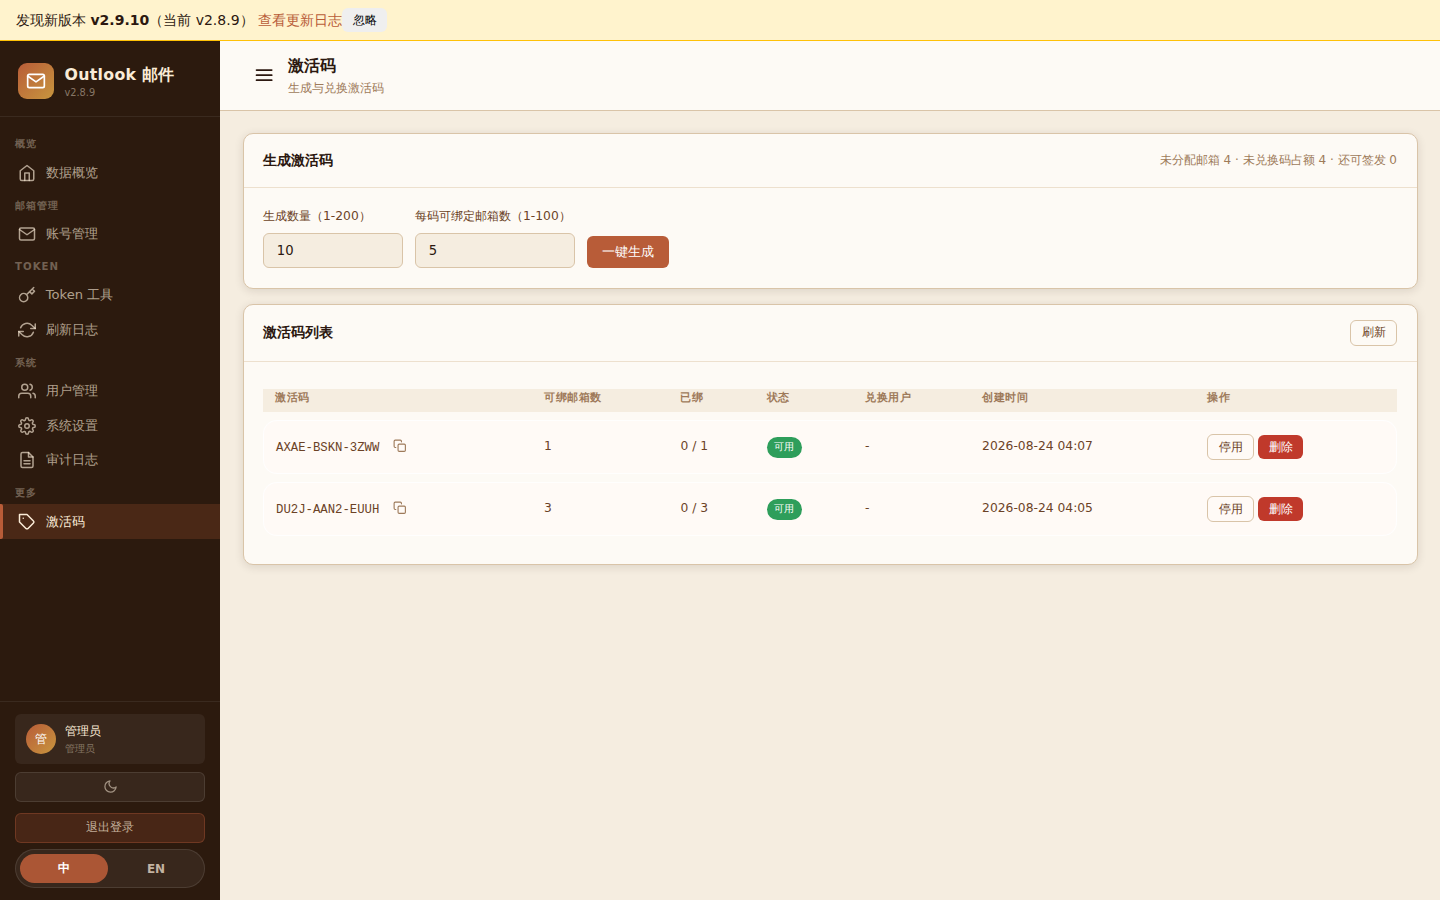
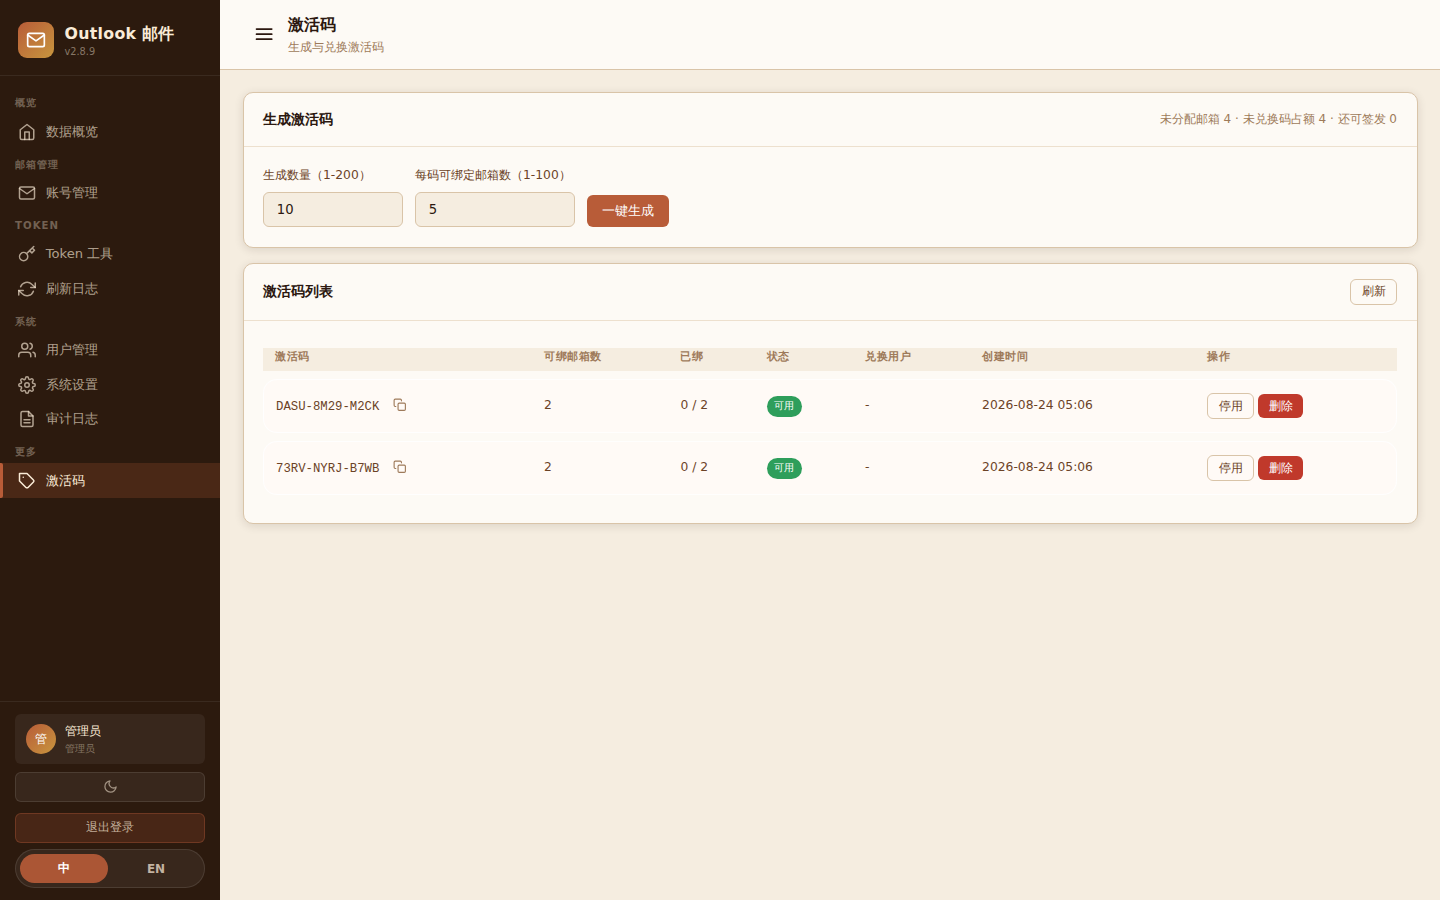
docs: 重拍界面预览（去除更新横幅）+ 新增三端自适应截图
- Playwright 拦截 /api/system/version-check，演示环境不再出现更新提示弹窗
- 新增平板(834px)与手机(390px)截图：数据概览/账号管理下钻式导航
- 预览图共 8 张（偶数），中英 README 同步更新布局

diff --git a/README.en.md b/README.en.md
@@ -12,10 +12,14 @@ All screenshots were taken against a demo environment with fake data — no real
 | Login | Dashboard |
 | --- | --- |
 | ![Login](img/preview-login.png) | ![Dashboard](img/preview-dashboard.png) |
-| **Accounts** | **Activation Codes** |
+| **Accounts (PC)** | **Activation Codes** |
 | ![Accounts](img/preview-mailbox.png) | ![Activation Codes](img/preview-activation.png) |
-| **User Management** | — |
-| ![User Management](img/preview-users.png) | — |
+| **User Management** | **Tablet · Accounts (834px)** |
+| ![User Management](img/preview-users.png) | ![Tablet · Accounts](img/preview-tablet-mailbox.png) |
+| **Mobile · Dashboard (390px)** | **Mobile · Accounts (390px)** |
+| ![Mobile · Dashboard](img/preview-mobile-dashboard.png) | ![Mobile · Accounts](img/preview-mobile-mailbox.png) |
+
+Responsive layout across desktop / tablet / mobile — on small screens the UI switches to a drill-down navigation flow.
 
 ---
 

diff --git a/README.md b/README.md
@@ -12,10 +12,14 @@
 | 登录 | 数据概览 |
 | --- | --- |
 | ![登录](img/preview-login.png) | ![数据概览](img/preview-dashboard.png) |
-| **账号管理** | **激活码分发** |
+| **账号管理（PC）** | **激活码分发** |
 | ![账号管理](img/preview-mailbox.png) | ![激活码](img/preview-activation.png) |
-| **用户管理** | — |
-| ![用户管理](img/preview-users.png) | — |
+| **用户管理** | **平板 · 账号管理（834px）** |
+| ![用户管理](img/preview-users.png) | ![平板·账号管理](img/preview-tablet-mailbox.png) |
+| **手机 · 数据概览（390px）** | **手机 · 账号管理（390px）** |
+| ![手机·数据概览](img/preview-mobile-dashboard.png) | ![手机·账号管理](img/preview-mobile-mailbox.png) |
+
+桌面 / 平板 / 手机三端自适应布局，移动端自动切换为下钻式逐层导航。
 
 ---
 
